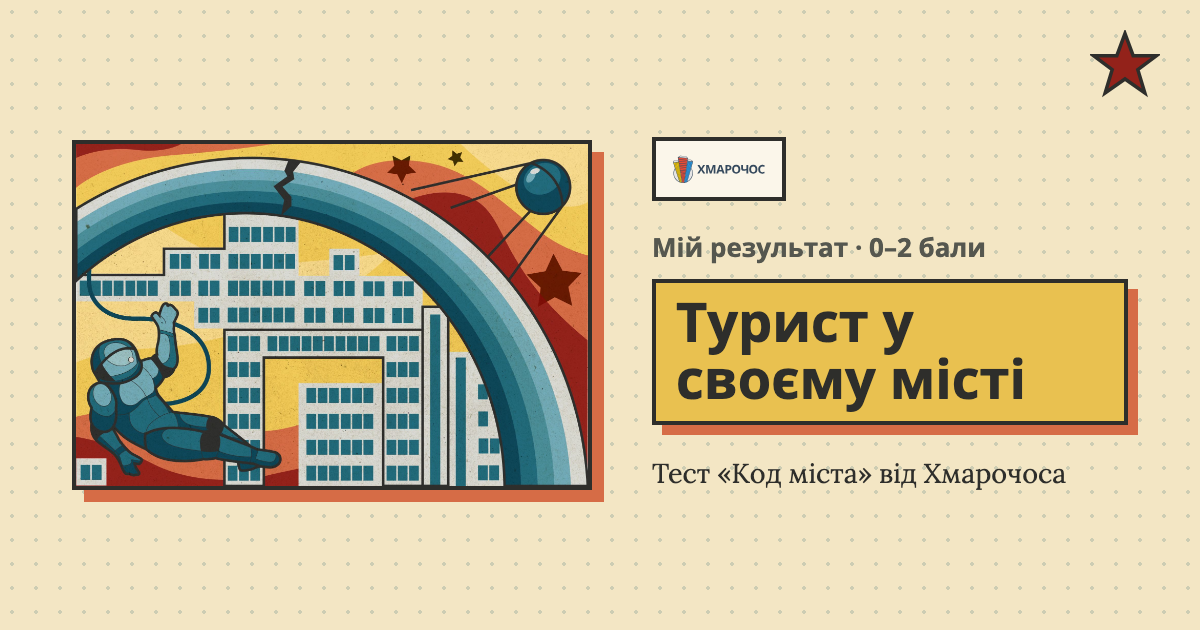
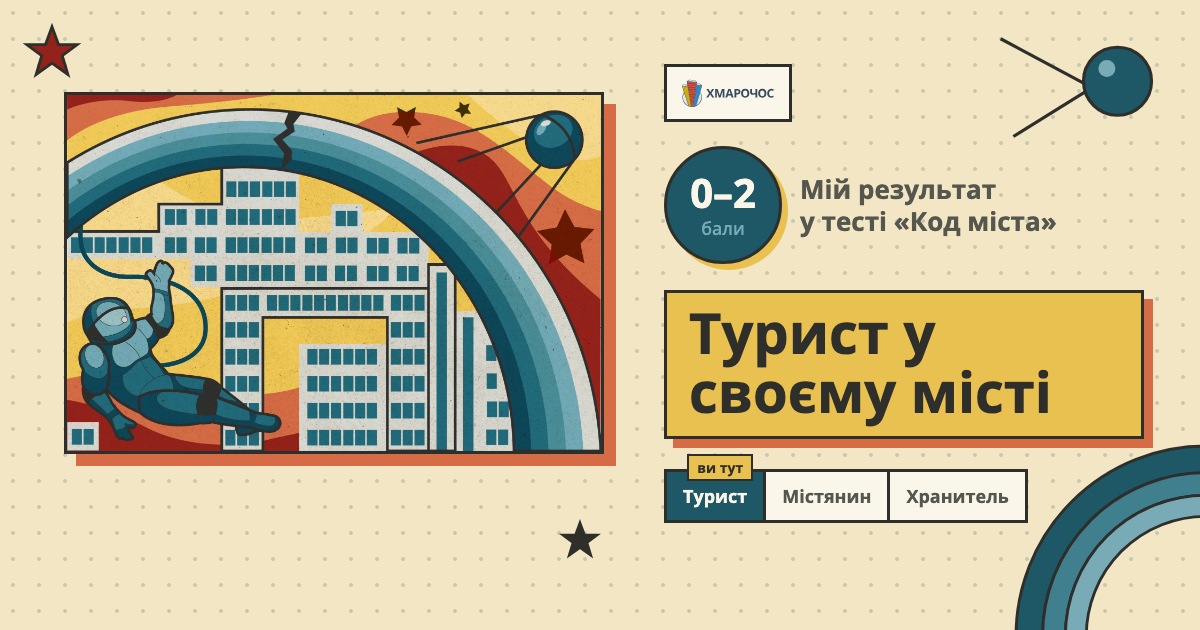
Мемфіс: фінальна сторінка однією колонкою по центру; нові OG — декор із мотивів обкладинки, кнопка-заклик, для рівнів значок балів і шкала «ви тут»

diff --git a/og-src/og.html b/og-src/og.html
@@ -3,55 +3,87 @@
 <head>
 <meta charset="utf-8">
 <title>OG</title>
-<!-- Шаблон OG-картинок 1200×630 у стилі «Мемфіс з ілюстрації».
-     Рендерить scripts/render-og.mjs:
-     og.html            → public/og-test.png
-     og.html?l=<slug>   → public/og-<slug>.png -->
+<!-- OG-картинки 1200×630 у стилі «Мемфіс з ілюстрації». Рендерить scripts/render-og.mjs:
+     og.html → public/og-test.png;  og.html?l=<slug> → public/og-<slug>.png -->
 <style>
 @font-face { font-family: "Open Sans"; src: url("../public/fonts/hm/open-sans-v29-latin_cyrillic-ext-700.woff2") format("woff2"); font-weight: 700; }
-@font-face { font-family: "Open Sans"; src: url("../public/fonts/hm/open-sans-v29-latin_cyrillic-ext-regular.woff2") format("woff2"); font-weight: 400; }
+@font-face { font-family: "Open Sans"; src: url("../public/fonts/hm/open-sans-v29-latin_cyrillic-ext-500.woff2") format("woff2"); font-weight: 500; }
 @font-face { font-family: "Lora"; src: url("../public/fonts/hm/lora-v24-latin_cyrillic-ext-regular.woff2") format("woff2"); font-weight: 400; }
 * { box-sizing: border-box; }
 body { margin: 0; width: 1200px; height: 630px; overflow: hidden; color: #2E2E2B; font-family: "Open Sans", sans-serif;
-  background-color: #F3E6C4; background-image: radial-gradient(rgba(30,88,102,.18) 1.6px, transparent 2px); background-size: 24px 24px; }
-.wrap { position: relative; width: 1200px; height: 630px; padding: 70px 72px; display: flex; gap: 60px; align-items: center; }
-.card { flex: 0 0 520px; border: 4px solid #2E2E2B; box-shadow: 12px 12px 0 #D66C46; background: #FBF6EA; }
+  background-color: #F3E6C4; background-image: radial-gradient(rgba(30,88,102,.2) 1.8px, transparent 2.2px); background-size: 26px 26px; }
+.wrap { position: relative; width: 1200px; height: 630px; }
+.d { position: absolute; overflow: visible; }
+.d * { stroke: #2E2E2B; stroke-width: 3; }
+.card { position: absolute; left: 64px; top: 92px; width: 540px; border: 3px solid #2E2E2B; box-shadow: 12px 12px 0 #D66C46; background: #FBF6EA; }
 .card img { display: block; width: 100%; aspect-ratio: 3/2; object-fit: cover; }
-.right { flex: 1 1 auto; display: flex; flex-direction: column; align-items: flex-start; }
-.logo { height: 64px; padding: 10px 14px; border: 4px solid #2E2E2B; background: #FBF6EA; }
-.logo img { height: 100%; }
-.kicker { margin-top: 28px; font-size: 26px; font-weight: 700; color: #55574F; }
-h1 { margin: 14px 0 0; padding: 10px 20px 14px; background: #E9C150; border: 4px solid #2E2E2B; box-shadow: 10px 10px 0 #1E5866; font-size: 84px; font-weight: 700; line-height: 1; }
-h1.lvl { font-size: 54px; line-height: 1.06; box-shadow: 10px 10px 0 #D66C46; }
-p { margin: 30px 0 0; font-family: "Lora", serif; font-size: 27px; line-height: 1.4; }
-.star { position: absolute; width: 70px; }
-.star polygon { fill: #93221A; stroke: #2E2E2B; stroke-width: 3; }
+.right { position: absolute; left: 664px; top: 64px; width: 480px; display: flex; flex-direction: column; align-items: flex-start; }
+.logo { height: 58px; padding: 8px 12px; border: 3px solid #2E2E2B; background: #FBF6EA; }
+.logo img { height: 100%; display: block; }
+.kicker { margin-top: 26px; font-size: 26px; font-weight: 700; color: #55574F; }
+h1 { margin: 12px 0 0; padding: 10px 22px 14px; background: #E9C150; border: 3px solid #2E2E2B; box-shadow: 9px 9px 0 #1E5866; font-size: 76px; font-weight: 700; line-height: 1; white-space: nowrap; }
+p.lead { margin: 30px 0 0; max-width: 420px; font-family: "Lora", serif; font-size: 25px; line-height: 1.4; }
+.cta { margin-top: 30px; display: inline-flex; align-items: center; gap: 18px; padding: 14px 24px; background: #D66C46; border: 3px solid #2E2E2B; box-shadow: 6px 6px 0 #2E2E2B; font-size: 26px; font-weight: 700; }
+.lvlHead { margin-top: 24px; display: flex; align-items: center; gap: 18px; }
+.badge { width: 118px; height: 118px; border-radius: 50%; border: 3px solid #2E2E2B; background: #1E5866; box-shadow: 6px 6px 0 #E9C150; color: #FBF6EA; display: flex; flex-direction: column; align-items: center; justify-content: center; line-height: 1; }
+.badge b { font-size: 40px; }
+.badge small { margin-top: 6px; font-size: 18px; color: #79ABB7; }
+.lvlCaption { font-size: 26px; font-weight: 700; color: #55574F; line-height: 1.25; }
+h1.lvl { font-size: 56px; line-height: 1.06; box-shadow: 9px 9px 0 #D66C46; white-space: normal; }
+.scale { margin-top: 30px; display: flex; border: 3px solid #2E2E2B; background: #FBF6EA; }
+.scale span { position: relative; padding: 12px 16px; font-size: 18px; font-weight: 700; color: #55574F; border-right: 3px solid #2E2E2B; }
+.scale span:last-child { border-right: 0; }
+.scale span.on { background: #1E5866; color: #FBF6EA; }
+.scale span.on::after { content: "ви тут"; position: absolute; top: -18px; right: 10px; padding: 2px 8px; background: #E9C150; color: #2E2E2B; border: 2px solid #2E2E2B; font-size: 14px; }
+.lvlOnly { display: none !important; }
+body.level .testOnly { display: none !important; }
+body.level .lvlOnly { display: flex !important; }
 </style>
 </head>
 <body>
 <div class="wrap">
+  <svg class="d" style="right: 40px; top: 26px; width: 170px" viewBox="0 0 160 120">
+    <line x1="96" y1="58" x2="10" y2="12" /><line x1="96" y1="58" x2="22" y2="104" />
+    <circle cx="120" cy="52" r="32" fill="#1E5866" /><circle cx="110" cy="40" r="8" fill="#79ABB7" style="stroke:none" />
+  </svg>
+  <svg class="d" style="left: 24px; top: 24px; width: 56px" viewBox="0 0 60 60"><polygon fill="#93221A" points="30,3 37,22 57,22 41,34 47,54 30,42 13,54 19,34 3,22 23,22"/></svg>
+  <svg class="d" style="left: 560px; top: 520px; width: 40px" viewBox="0 0 60 60"><polygon fill="#2E2E2B" points="30,3 37,22 57,22 41,34 47,54 30,42 13,54 19,34 3,22 23,22"/></svg>
+  <svg class="d" style="right: -6px; bottom: -6px; width: 190px" viewBox="0 0 200 200">
+    <path fill="#1E5866" d="M200 0 A 200 200 0 0 0 0 200 L 28 200 A 172 172 0 0 1 200 28 Z" />
+    <path fill="#3F7F8E" d="M200 28 A 172 172 0 0 0 28 200 L 52 200 A 148 148 0 0 1 200 52 Z" />
+    <path fill="#79ABB7" d="M200 52 A 148 148 0 0 0 52 200 L 74 200 A 126 126 0 0 1 200 74 Z" />
+  </svg>
+
   <div class="card"><img src="../public/art/cover.jpg" alt=""></div>
+
   <div class="right">
     <div class="logo"><img src="../public/hmarochos_logo_new.svg" alt=""></div>
-    <div class="kicker" id="kicker">Тест · 8 питань</div>
-    <h1 id="title">Код міста</h1>
-    <p id="lead">Будівлі, назви вулиць і пам’ятники</p>
+    <div class="kicker testOnly">Тест · 8 питань</div>
+    <h1 class="testOnly">Код міста</h1>
+    <p class="lead testOnly">Будівлі, назви вулиць і пам’ятники. Наскільки добре ви читаєте своє місто?</p>
+    <div class="cta testOnly">Пройти тест <span>→</span></div>
+    <div class="lvlHead lvlOnly">
+      <div class="badge"><b id="range">6–8</b><small id="unit">балів</small></div>
+      <div class="lvlCaption">Мій результат<br>у тесті «Код міста»</div>
+    </div>
+    <h1 class="lvl lvlOnly" id="title" style="margin-top: 26px">Хранитель коду міста</h1>
+    <div class="scale lvlOnly" id="scale"></div>
   </div>
-  <svg class="star" style="right: 40px; top: 30px" viewBox="0 0 60 60"><polygon points="30,3 37,22 57,22 41,34 47,54 30,42 13,54 19,34 3,22 23,22"/></svg>
 </div>
 <script>
-  const LV = {
-    tourist: { title: "Турист у своєму місті", range: "0–2 бали" },
-    citizen: { title: "Допитливий містянин", range: "3–5 балів" },
-    keeper: { title: "Хранитель коду міста", range: "6–8 балів" },
-  };
-  const lv = LV[new URLSearchParams(location.search).get("l")];
+  const LV = [
+    { slug: "tourist", title: "Турист у своєму місті", short: "Турист", range: "0–2", unit: "бали" },
+    { slug: "citizen", title: "Допитливий містянин", short: "Містянин", range: "3–5", unit: "балів" },
+    { slug: "keeper", title: "Хранитель коду міста", short: "Хранитель", range: "6–8", unit: "балів" },
+  ];
+  const slug = new URLSearchParams(location.search).get("l");
+  const lv = LV.find((l) => l.slug === slug);
   if (lv) {
-    document.getElementById("kicker").textContent = `Мій результат · ${lv.range}`;
-    const t = document.getElementById("title");
-    t.textContent = lv.title;
-    t.className = "lvl";
-    document.getElementById("lead").textContent = "Тест «Код міста» від Хмарочоса";
+    document.body.classList.add("level");
+    document.getElementById("title").textContent = lv.title;
+    document.getElementById("range").textContent = lv.range;
+    document.getElementById("unit").textContent = lv.unit;
+    document.getElementById("scale").innerHTML = LV.map((l) => `<span class="${l.slug === slug ? "on" : ""}">${l.short}</span>`).join("");
   }
 </script>
 </body>

diff --git a/app/skins/memphis/memphis.css b/app/skins/memphis/memphis.css
@@ -979,3 +979,69 @@ body:has(.memphis) {
     margin-bottom: 56px;
   }
 }
+
+/* ——— результат: одна колонка по центру ——— */
+.memphis.centered .centerCol {
+  position: relative;
+  z-index: 1;
+  max-width: 620px;
+  margin: 0 auto;
+  padding: 24px 20px 56px;
+  display: flex;
+  flex-direction: column;
+  align-items: center;
+  text-align: center;
+}
+.memphis.centered .logoChip {
+  align-self: center;
+}
+.memphis.centered .coverCard {
+  width: 100%;
+  margin-top: 20px;
+}
+.memphis.centered .resultHead {
+  margin-top: 30px;
+  justify-content: center;
+}
+.memphis.centered .resultHead .score {
+  text-align: left;
+}
+.memphis.centered .titleBlock {
+  align-self: center;
+}
+.memphis.centered .scale {
+  width: 100%;
+  text-align: left;
+}
+.memphis.centered .lead {
+  margin-left: auto;
+  margin-right: auto;
+}
+.memphis.centered .scorecard {
+  width: 100%;
+  text-align: left;
+}
+.memphis.centered .actions {
+  align-items: stretch;
+  width: min(420px, 100%);
+}
+.memphis.centered .shareLabel {
+  text-align: center;
+}
+@media (prefers-reduced-motion: no-preference) {
+  .memphis.centered .centerCol > * {
+    animation: mRise 0.38s cubic-bezier(0.2, 0.7, 0.2, 1) both;
+  }
+  .memphis.centered .centerCol > :nth-child(2) { animation-delay: 0.05s; }
+  .memphis.centered .centerCol > :nth-child(3) { animation-delay: 0.1s; }
+  .memphis.centered .centerCol > :nth-child(4) { animation-delay: 0.15s; }
+  .memphis.centered .centerCol > :nth-child(n + 5) { animation-delay: 0.2s; }
+}
+@media (min-width: 900px) {
+  .memphis.centered .centerCol {
+    padding-top: 48px;
+  }
+  .memphis.centered .shareGrid {
+    grid-template-columns: repeat(3, minmax(0, 1fr));
+  }
+}

diff --git a/app/skins/memphis/MemphisSkin.tsx b/app/skins/memphis/MemphisSkin.tsx
@@ -345,15 +345,12 @@ function LevelScale({ current }: { current: Level }) {
 function ResultBody({ level, score, onRestart, history }: { level: Level; score?: number; onRestart?: () => void; history?: boolean[] }) {
   const shareUrl = resultShareUrl(level.slug);
   return (
-    <main className="memphis split result">
+    <main className="memphis centered result">
       <Decor variant="result" />
       {score !== undefined && <Confetti />}
-      <div className="splitInner">
-        <div className="left">
-          <CoverCard />
-        </div>
-        <div className="right">
-          <Logo />
+      <div className="centerCol">
+        <Logo />
+        <CoverCard />
           <div className="resultHead">
             <div className="scoreStar" aria-label={score !== undefined ? `${score} з ${questions.length}` : level.range}>
               <span className="scoreNum">
@@ -406,7 +403,6 @@ function ResultBody({ level, score, onRestart, history }: { level: Level; score?
               </a>
             )}
           </div>
-        </div>
       </div>
     </main>
   );
